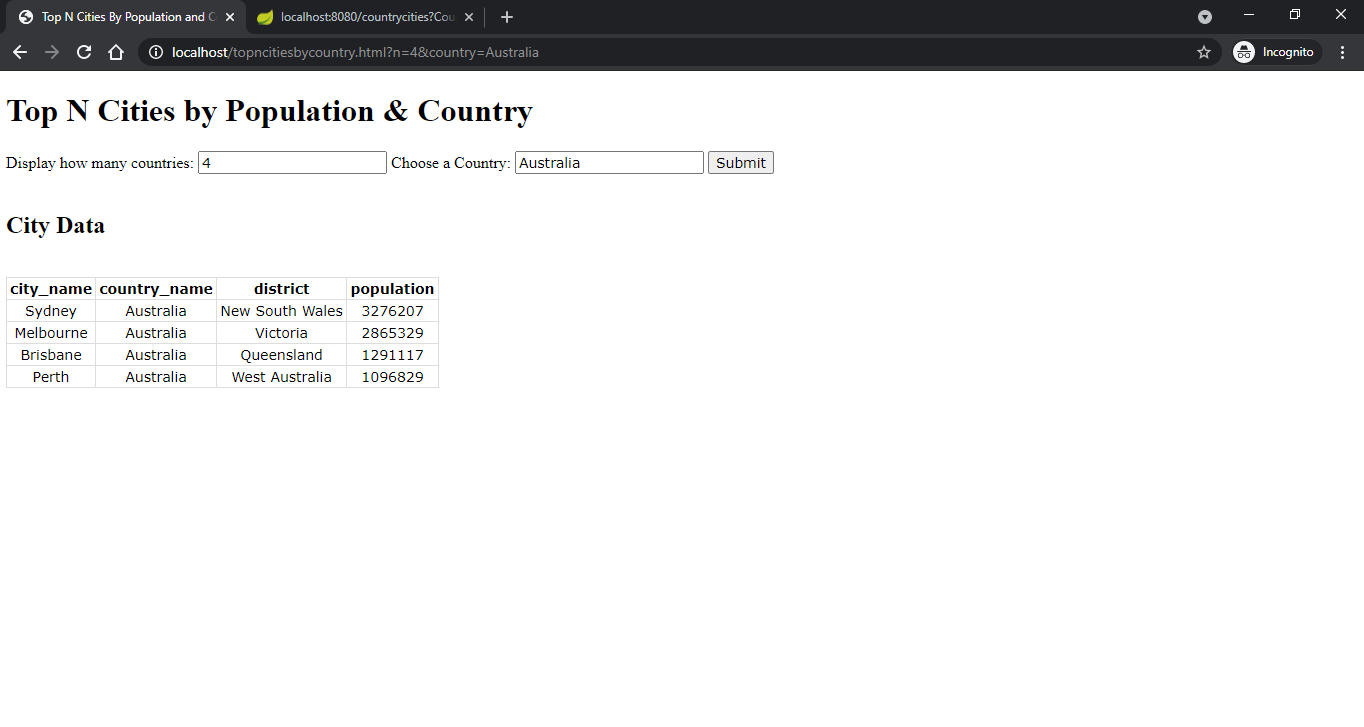
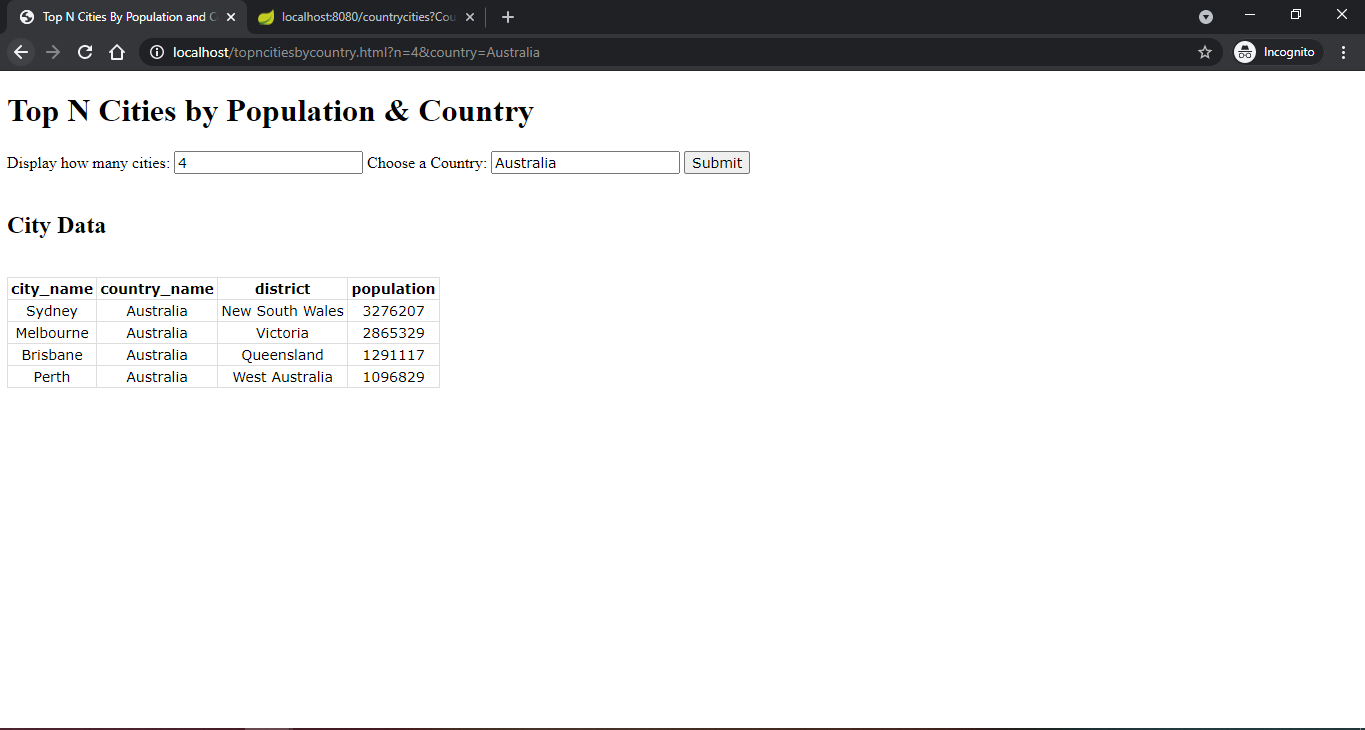
Modified the topncitiesby country report and screen

diff --git a/web/content/topncitiesbydistrict.html b/web/content/topncitiesbydistrict.html
@@ -2,7 +2,7 @@
 <html lang="en">
 <head>
     <meta charset="UTF-8">
-    <title>Top N Cities By Population and Country</title>
+    <title>Top N Cities By Population and District</title>
 
     <script src="https://code.jquery.com/jquery-3.2.1.min.js"></script>
 
@@ -25,12 +25,12 @@
     </style>
 </head>
 <body>
-<h1>Top N Cities by Population & Country</h1>
+<h1>Top N Cities by Population & District</h1>
 <form action="/topncitiesbycountry.html">
     <label for=n>Display how many cities:</label>
     <input type="number" id=n name=n value="4">
-    <label for="country">Choose a Country:</label>
-    <input type="text" id=country name=country value="Australia">
+    <label for="district">Choose a District:</label>
+    <input type="text" id=district name=district value="New York">
     <input type="submit" value="Submit">
 </form>
 </br>
@@ -42,9 +42,9 @@
 <script>
     var urlParams = new URLSearchParams(window.location.search);
     var n = urlParams.get('n');
-    var country = urlParams.get('country');
+    var district = urlParams.get('district');
 
-    var URL = "http://" + window.location.hostname + "/app/topncitiesincountry?Country=" + country + "&N="+n;
+    var URL = "http://" + window.location.hostname + "/app/topncitiesindistrict?District=" + district + "&N="+n;
 
     //show url
 

diff --git a/src/main/java/com/napier/sem/App.java b/src/main/java/com/napier/sem/App.java
@@ -759,6 +759,43 @@ public class App {
             return null;
         }
     }
+    @RequestMapping("topncitiesindistrict")
+    public  static ArrayList<City> getTopNCitiesInDistrict(@RequestParam String District, int N)
+    {
+        try
+        {
+            // Create an SQL statement
+            Statement stmt = con.createStatement();
+            // Create string for SQL statement
+            String strSelect =
+                    "SELECT city.Name, country.Name, city.District, city.Population \n" +
+                            "FROM world.city \n" +
+                            "Join world.country on city.CountryCode = country.Code\n" +
+                            "where country.Name like '" + District + "'\n" +
+                            "ORDER BY Population desc\n" +
+                            "LIMIT 0, "+ N;
+            // Execute SQL statement
+            ResultSet rset = stmt.executeQuery(strSelect);
+            // Extract city information
+            ArrayList<City> cities = new ArrayList<City>();
+            while (rset.next())
+            {
+                City city = new City();
+                city.setCity_name(rset.getString("city.Name"));
+                city.setCountry_name(rset.getString("country.name"));
+                city.setDistrict(rset.getString("city.District"));
+                city.setPopulation(rset.getInt("city.Population"));
+                cities.add(city);
+            }
+            return cities;
+        }
+        catch (Exception e)
+        {
+            System.out.println(e.getMessage());
+            System.out.println("Failed to get City details");
+            return null;
+        }
+    }
 
     /**
      * Gets world capital cities.

diff --git a/README.md b/README.md
@@ -35,7 +35,7 @@
 | 12    | The top N populated cities in the world where N is provided by the user. | Yes | ![topNcities](https://user-images.githubusercontent.com/72627750/115652443-469b3580-a2fb-11eb-9e22-5276fb12467d.PNG)|
 | 13    | The top N populated cities in a continent where N is provided by the user. | Yes | ![topncitiesbycontinent](https://user-images.githubusercontent.com/72627750/115653451-308e7480-a2fd-11eb-975a-6aa86f085187.PNG)|
 | 14    | The top N populated cities in a region where N is provided by the user. | Yes |![topNcitiesbyregion](https://user-images.githubusercontent.com/72627750/115654215-aba45a80-a2fe-11eb-925c-eeaa2b7a3150.PNG)|
-| 15    | The top N populated cities in a country where N is provided by the user. | Yes | ![topncitiesbycountry](https://user-images.githubusercontent.com/72627750/115654674-9aa81900-a2ff-11eb-8cc4-c18d82ea3a7a.PNG)|
+| 15    | The top N populated cities in a country where N is provided by the user. | Yes | ![topncitiesbycountry](https://user-images.githubusercontent.com/72627750/115655244-e3140680-a300-11eb-8c95-a1d5f7a4b825.PNG)|
 | 16    | The top N populated cities in a district where N is provided by the user. | Yes | image |
 | 17    | All the capital cities in the world organised by largest population to smallest. | Yes | image |
 | 18    | All the capital cities in a continent organised by largest population to smallest. | Yes | image |
